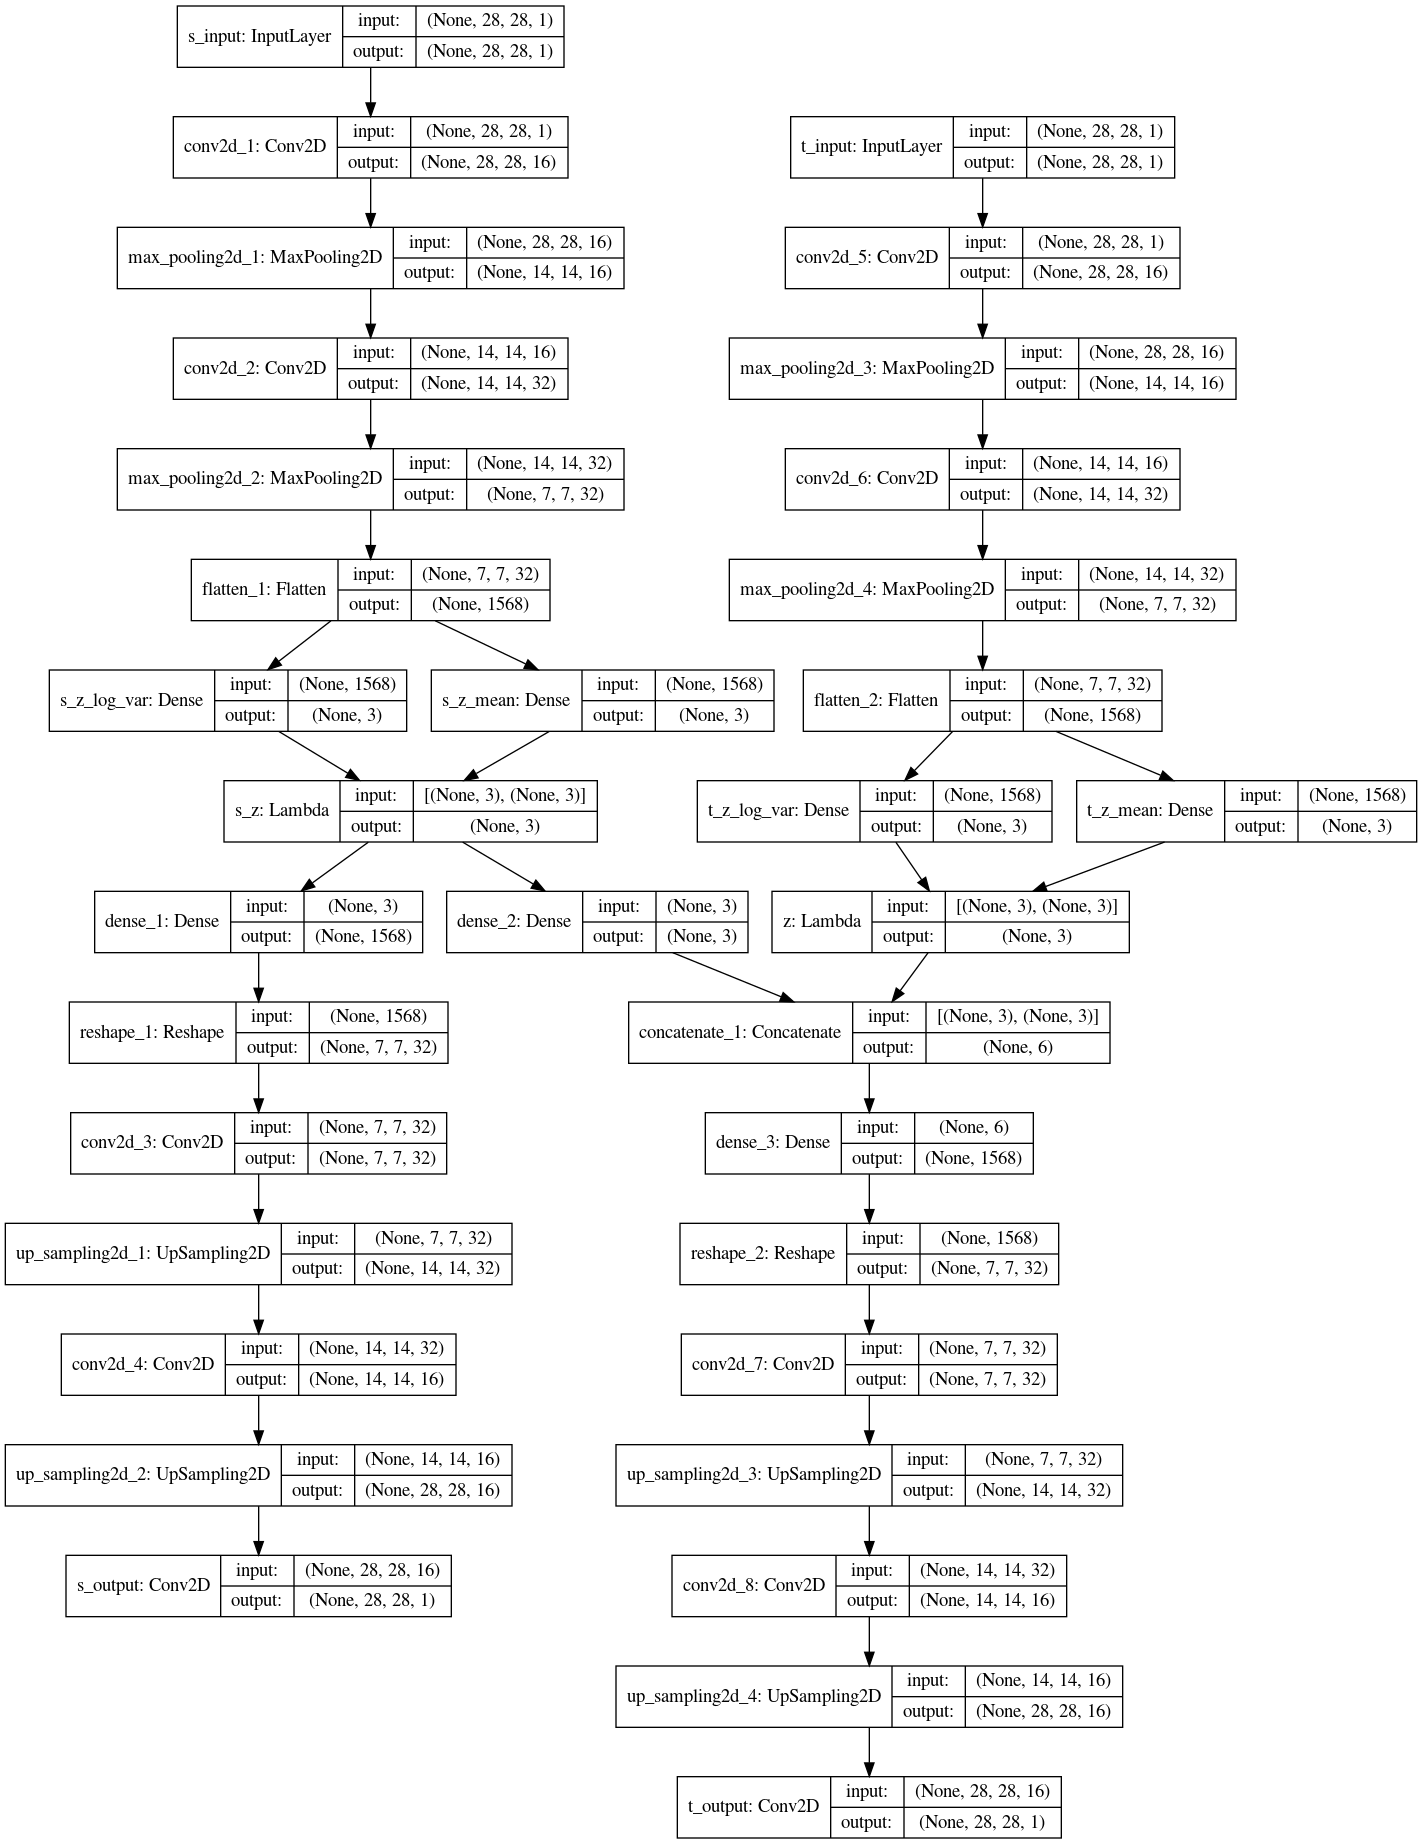
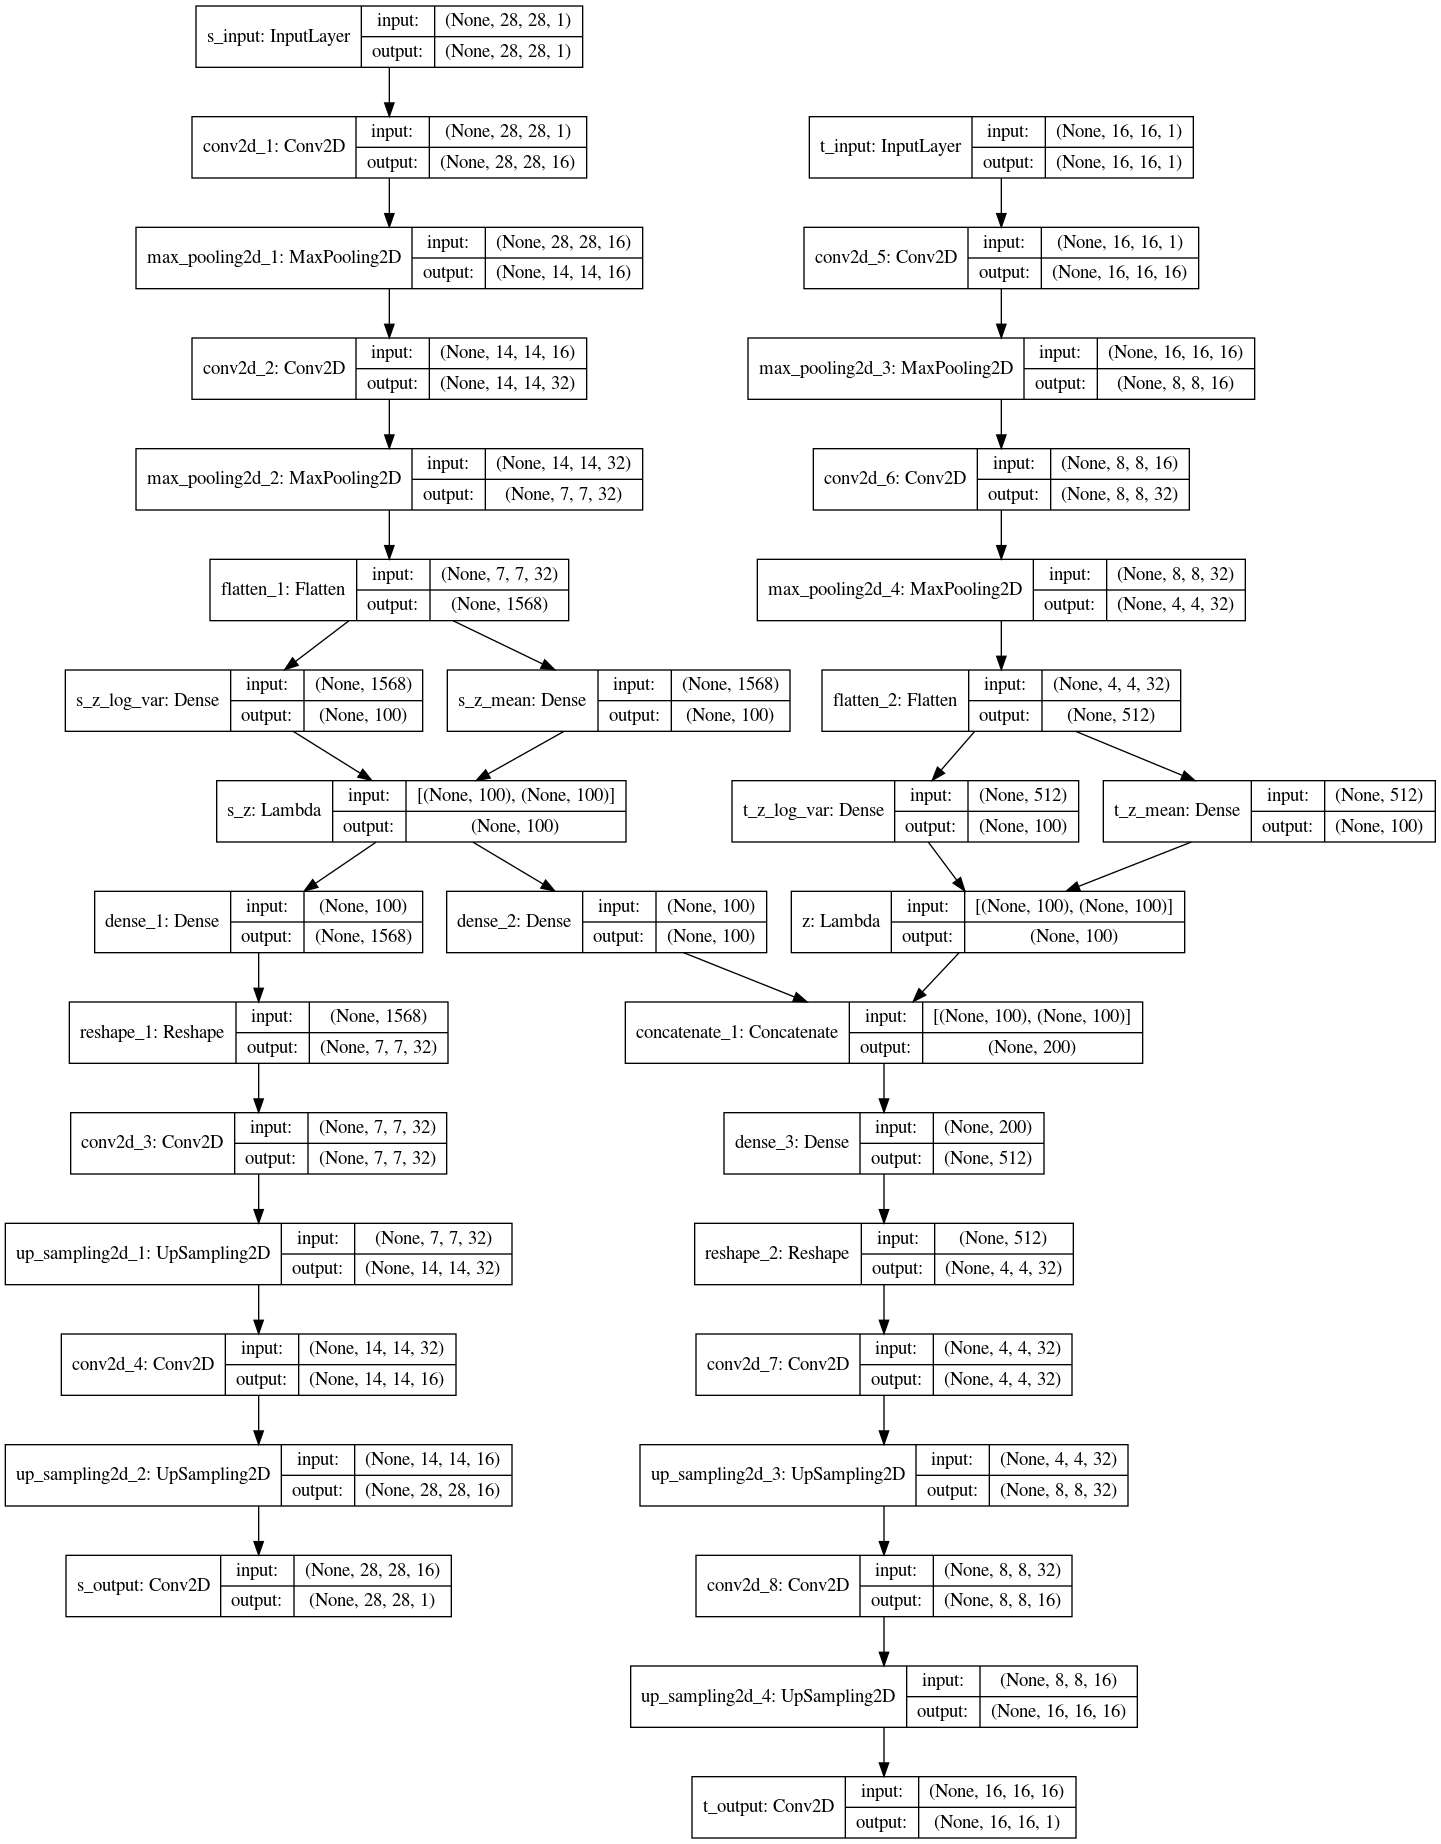
model working

diff --git a/auto_encoders.py b/auto_encoders.py
@@ -3,7 +3,7 @@ from __future__ import division
 from __future__ import print_function
 
 
-from keras.layers import Lambda, Reshape, Input, Dense, Conv2D, MaxPool2D, Flatten, UpSampling2D, concatenate
+from keras.layers import Lambda, ZeroPadding2D ,Reshape, Input, Dense, Conv2D, MaxPool2D, Flatten, UpSampling2D, concatenate
 from keras.models import Model, Sequential
 from keras.datasets import mnist
 from keras.optimizers import Adam
@@ -135,4 +135,41 @@ class AutoEncoder_SYN():
         x = Conv2D(16, (3,3), padding = 'same', strides = (1,1), activation = 'relu')(x)
         x = UpSampling2D((2,2))(x)
         outputs = Conv2D(self.input_shape[2], (3,3), padding = 'same', strides = (1,1), activation = 'linear', name = 'Sy_output')(x)
+        return outputs
+
+
+class AutoEncoder_Office():
+    def __init__(self, input_shape, output_layer_name, latent_dim=100):
+        self.input_shape = input_shape
+        self.latent_dim = latent_dim
+        self.output_layer_name = output_layer_name
+
+    def encoder_layers(self,x):
+
+        x = Conv2D(16, (3,3), padding = 'same', strides = (1,1), activation = 'relu')(x)
+        x = MaxPool2D(pool_size=(2,2))(x)
+        x = Conv2D(32, (2,2), padding='same', strides=(1,1), activation='relu')(x)
+        x = MaxPool2D(pool_size=(2,2))(x)
+        x = Conv2D(16, (2,2), padding='same', strides=(1,1), activation='relu')(x)
+        x = MaxPool2D(pool_size=(2,2))(x)
+        x = Conv2D(16, (2,2), padding='same', strides=(1,1), activation='relu')(x)
+        x = MaxPool2D(pool_size=(2,2))(x)
+        x = Flatten()(x)
+        self.encoded  = Dense(self.latent_dim, activation='relu')(x)
+        return self.encoded
+
+    def decoder_layers(self,x):
+
+        x = Dense(6*6*16, activation='relu')(x)
+        x = Reshape((6,6,16))(x)
+        x = Conv2D(16, (2,2), padding = 'same', strides = (1,1), activation = 'relu')(x)
+        x = UpSampling2D((2,2))(x)
+        x = Conv2D(16, (2,2), padding = 'same', strides = (1,1), activation = 'relu')(x)
+        x = UpSampling2D((2,2))(x)
+        x = Conv2D(32, (2,2), padding = 'same', strides = (1,1), activation = 'relu')(x)
+        x = ZeroPadding2D(padding=((0,1),(0,1)))(x)
+        x = UpSampling2D((2,2))(x)
+        x = Conv2D(16, (3,3), padding = 'same', strides = (1,1), activation = 'relu')(x)
+        x = UpSampling2D((2,2))(x)
+        outputs = Conv2D(self.input_shape[2], (3,3), padding = 'same', strides = (1,1), activation = 'linear', name = self.output_layer_name)(x)
         return outputs

diff --git a/da_auto_encoder.py b/da_auto_encoder.py
@@ -121,6 +121,9 @@ def upsample_by_class(x_s,y_s,x_t,y_t):
     y_s_ups = np.array([])
     x_t_ups = np.array([])
     y_t_ups = np.array([])
+    if len(y_s.shape)>1:
+        y_s = y_s.argmax(axis=1)
+        y_t = y_t.argmax(axis=1)
     for cl in np.unique(y_s):
         # print(f"class:  {cl}")
         s_args = np.argwhere(y_s == cl).flatten()
@@ -133,9 +136,10 @@ def upsample_by_class(x_s,y_s,x_t,y_t):
             x_t_cl_ups = x_t[t_args]
             
             n_diff = s_args.shape[0] - t_args.shape[0]
-            sampled_args =  np.random.choice(t_args.flatten(), n_diff)
-            y_t_cl_ups = np.append(y_t_cl_ups, y_t[sampled_args], axis=0)
-            x_t_cl_ups = np.append(x_t_cl_ups, x_t[sampled_args], axis=0)
+            if len(t_args.flatten()):
+                sampled_args =  np.random.choice(t_args.flatten(), n_diff)
+                y_t_cl_ups = np.append(y_t_cl_ups, y_t[sampled_args], axis=0)
+                x_t_cl_ups = np.append(x_t_cl_ups, x_t[sampled_args], axis=0)
             
 
         elif len(s_args) < len(t_args):
@@ -146,9 +150,10 @@ def upsample_by_class(x_s,y_s,x_t,y_t):
             x_t_cl_ups = x_t[t_args]
             
             n_diff = t_args.shape[0] - s_args.shape[0]
-            sampled_args =  np.random.choice(s_args.flatten(), n_diff)
-            y_s_cl_ups = np.append(y_s_cl_ups, y_s[sampled_args], axis=0)
-            x_s_cl_ups = np.append(x_s_cl_ups, x_s[sampled_args], axis=0)
+            if len(s_args.flatten()):
+                sampled_args =  np.random.choice(s_args.flatten(), n_diff)
+                y_s_cl_ups = np.append(y_s_cl_ups, y_s[sampled_args], axis=0)
+                x_s_cl_ups = np.append(x_s_cl_ups, x_s[sampled_args], axis=0)
 
         if x_s_ups.shape[0] == 0:
             x_s_ups = x_s_cl_ups
@@ -168,10 +173,9 @@ class S_T_AE():
         self.s_input_shape = s_ae.input_shape
         self.latent_dim = latent_dim
         self.n_classes = n_classes
-        self.s_total_pixel = s_input_shape[0] * s_input_shape[1]
-
+        self.s_total_pixel = s_ae.input_shape[0] * s_ae.input_shape[1]
         self.t_input_shape = t_ae.input_shape
-        self.t_total_pixel = t_input_shape[0] * t_input_shape[1]
+        self.t_total_pixel = t_ae.input_shape[0] * t_ae.input_shape[1]
         self.classifier = None
         self.s_ae = s_ae  #Source Auto Encoder
         self.t_ae = t_ae    #Target Auto Encoder

diff --git a/data_prep_office.py b/data_prep_office.py
@@ -4,10 +4,12 @@ from matplotlib import pyplot as plt
 from matplotlib import image
 from os import listdir
 from PIL import Image
+from sklearn.preprocessing import OneHotEncoder
 
 office_dir = 'office_data/'
 domains = ['amazon', 'dslr', 'webcam']
 classes = listdir(f'{office_dir}{domains[0]}/images')
+classes.sort()
 fs = listdir(f'{office_dir}{domains[0]}/images/{classes[0]}/')
 
 img = Image.open(f'{office_dir}{domains[0]}/images/{classes[0]}/{fs[14]}')
@@ -15,26 +17,48 @@ img_r = img.resize((100,100))
 img_np = np.array(img_r)
 
 
-X = {}
-y = {}
+def load_office_data(data_dir = 'office_data/', domains = ['amazon', 'dslr', 'webcam']):
+    '''
+    Loading office data
+    data_dir: directory address of office data
+    domains: different domains of data, which are also the name of the folders
+    return: X, dictionary containing feature data
+            y, dictionary containing labels
+    '''
+    X = {}
+    y = {}
+    classes = listdir(f'{data_dir}{domains[0]}/images')
+    classes.sort()
+    enc = OneHotEncoder()
+    enc.fit(np.reshape(classes, (-1,1)))
 
-for d in domains:
+    for d in domains:
 
-    X_d = []
-    y_d = []
-    # Loading Amazon data
-    dir_d = f'{office_dir}{d}/images'
-    for c in listdir(dir_d):
-        files = listdir(f'{dir_d}/{c}/')
-        for f in files:
-            img  = Image.open(f'{dir_d}/{c}/{f}')
-            img_r = np.array(img.resize((100,100)))
-            X_d.append(img_r)
-            y_d.append(c)
+        X_d = []
+        y_d = []
+        # Loading Amazon data
+        dir_d = f'{data_dir}{d}/images'
+        for c in listdir(dir_d):
+            files = listdir(f'{dir_d}/{c}/')
+            for f in files:
+                img  = Image.open(f'{dir_d}/{c}/{f}')
+                img_r = np.array(img.resize((100,100)))
+                X_d.append(img_r)
+                y_d.append(c)
 
-    X_d = np.array(X_d)
-    y_d = np.array(y_d)
-    X[d] = X_d
-    y[d] = y_d
+        X_d = np.array(X_d)
+        y_d = np.array(y_d)
+        X[d] = X_d
+        y[d] =  enc.transform(y_d.reshape(-1,1)).toarray()
 
-X[].shape
+    return X, y
+
+
+# X, y = load_office_data()
+# # y_ohe =  enc.transform(y['amazon'].reshape(-1,1)).toarray()
+# # enc.categories_
+
+# X['amazon'].shape
+# classes
+# y['webcam']
+# plt.imshow(X['webcam'][150])
